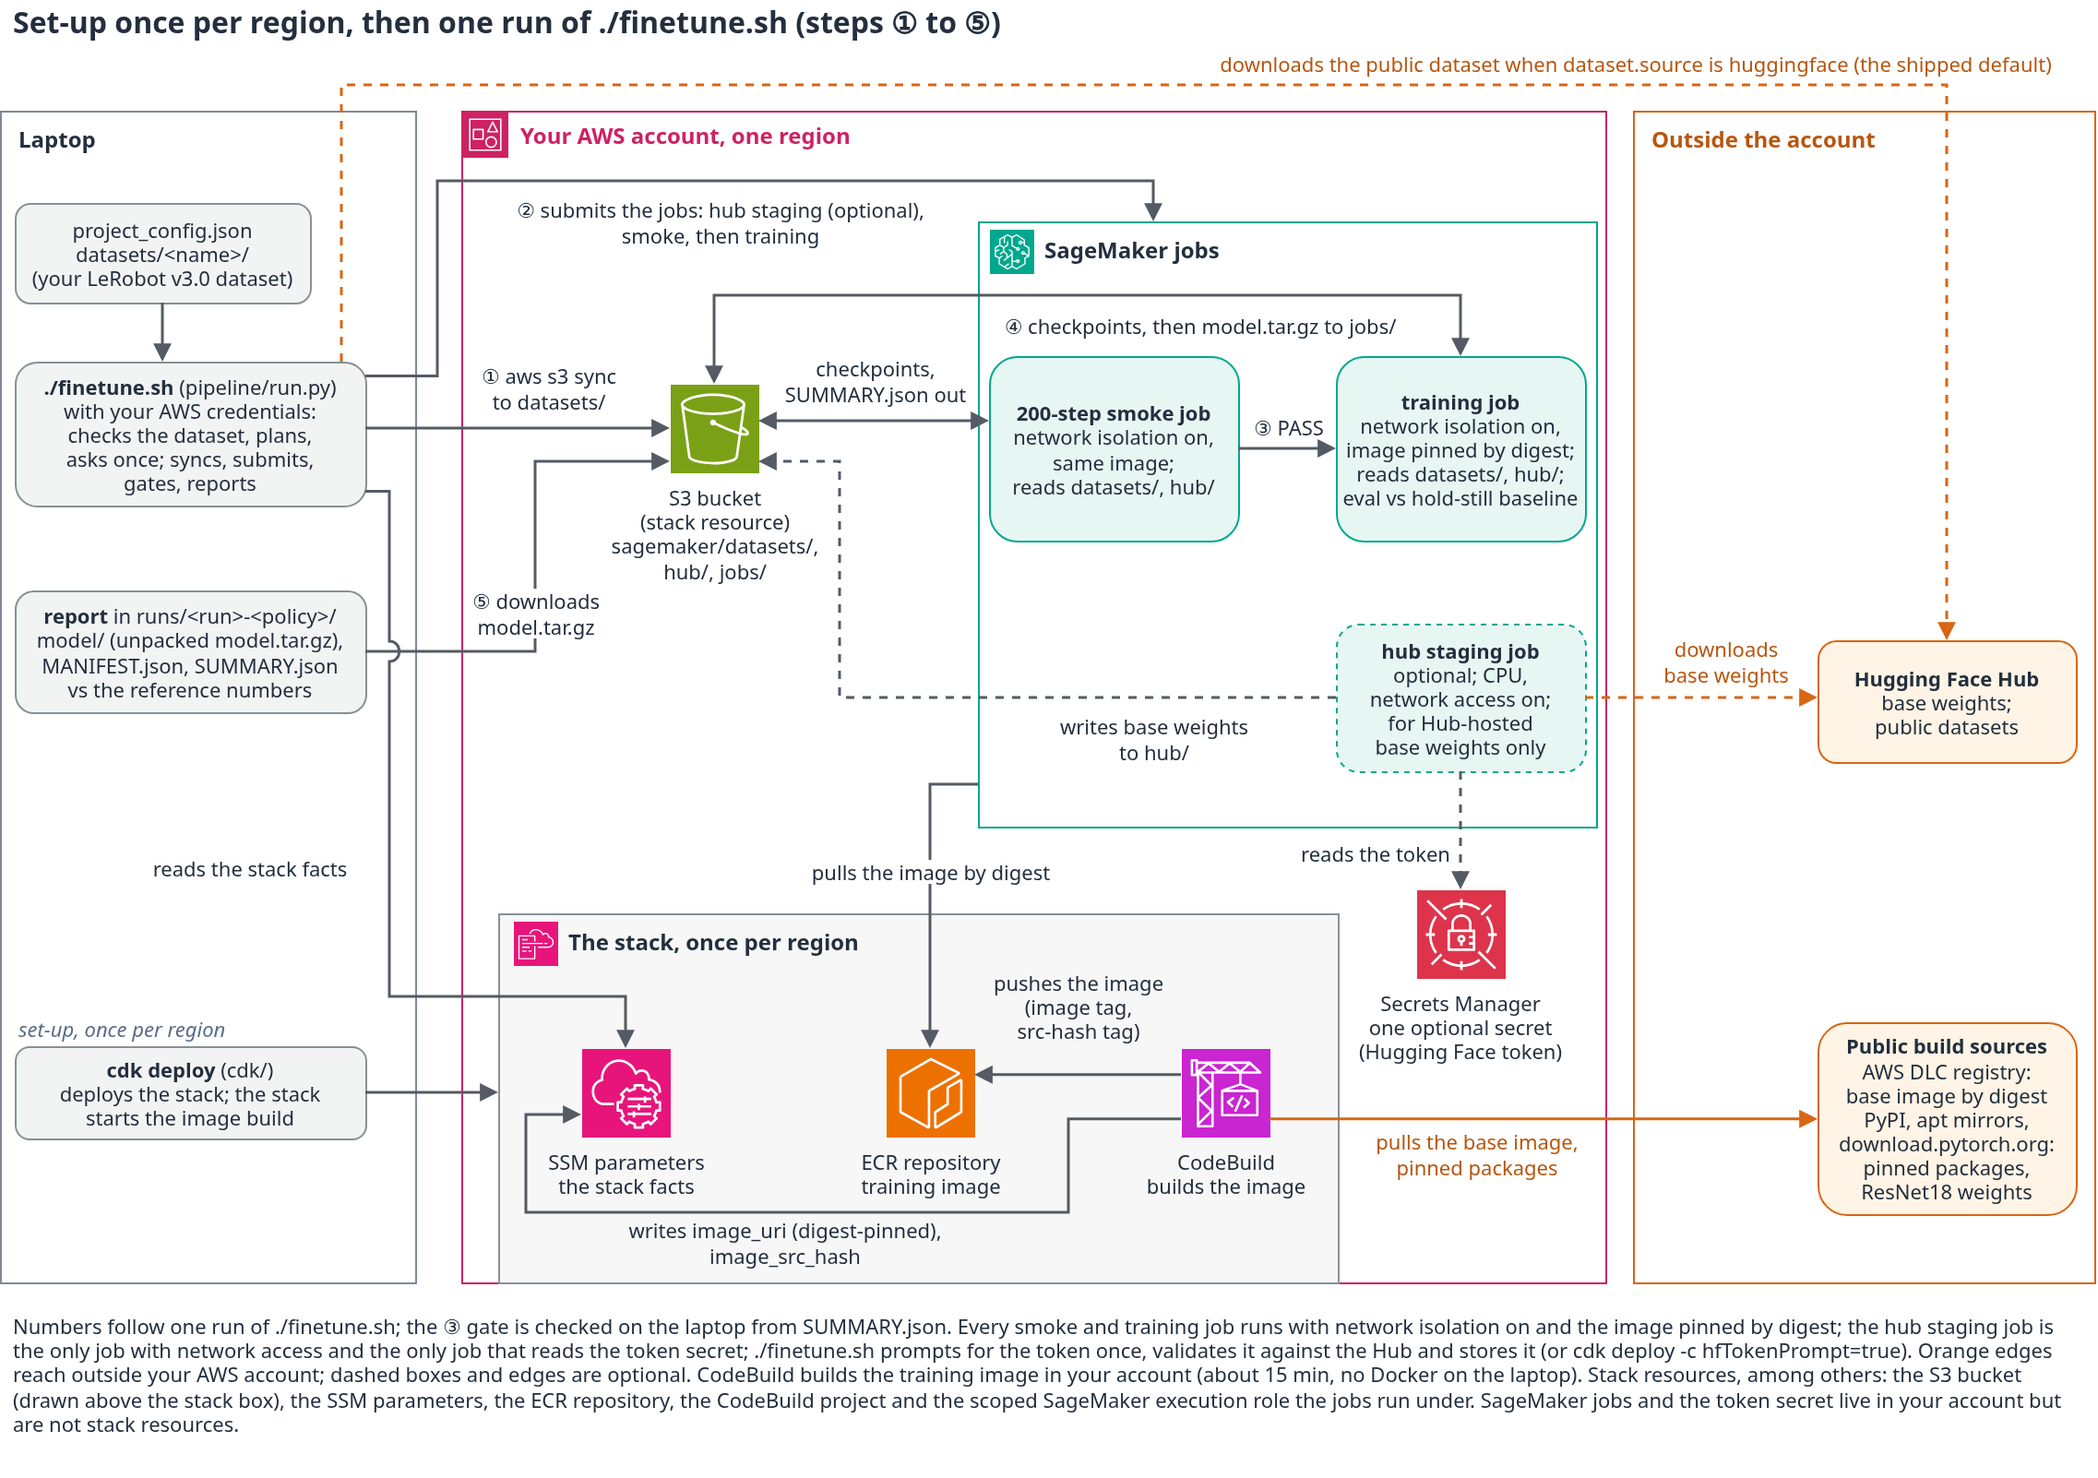
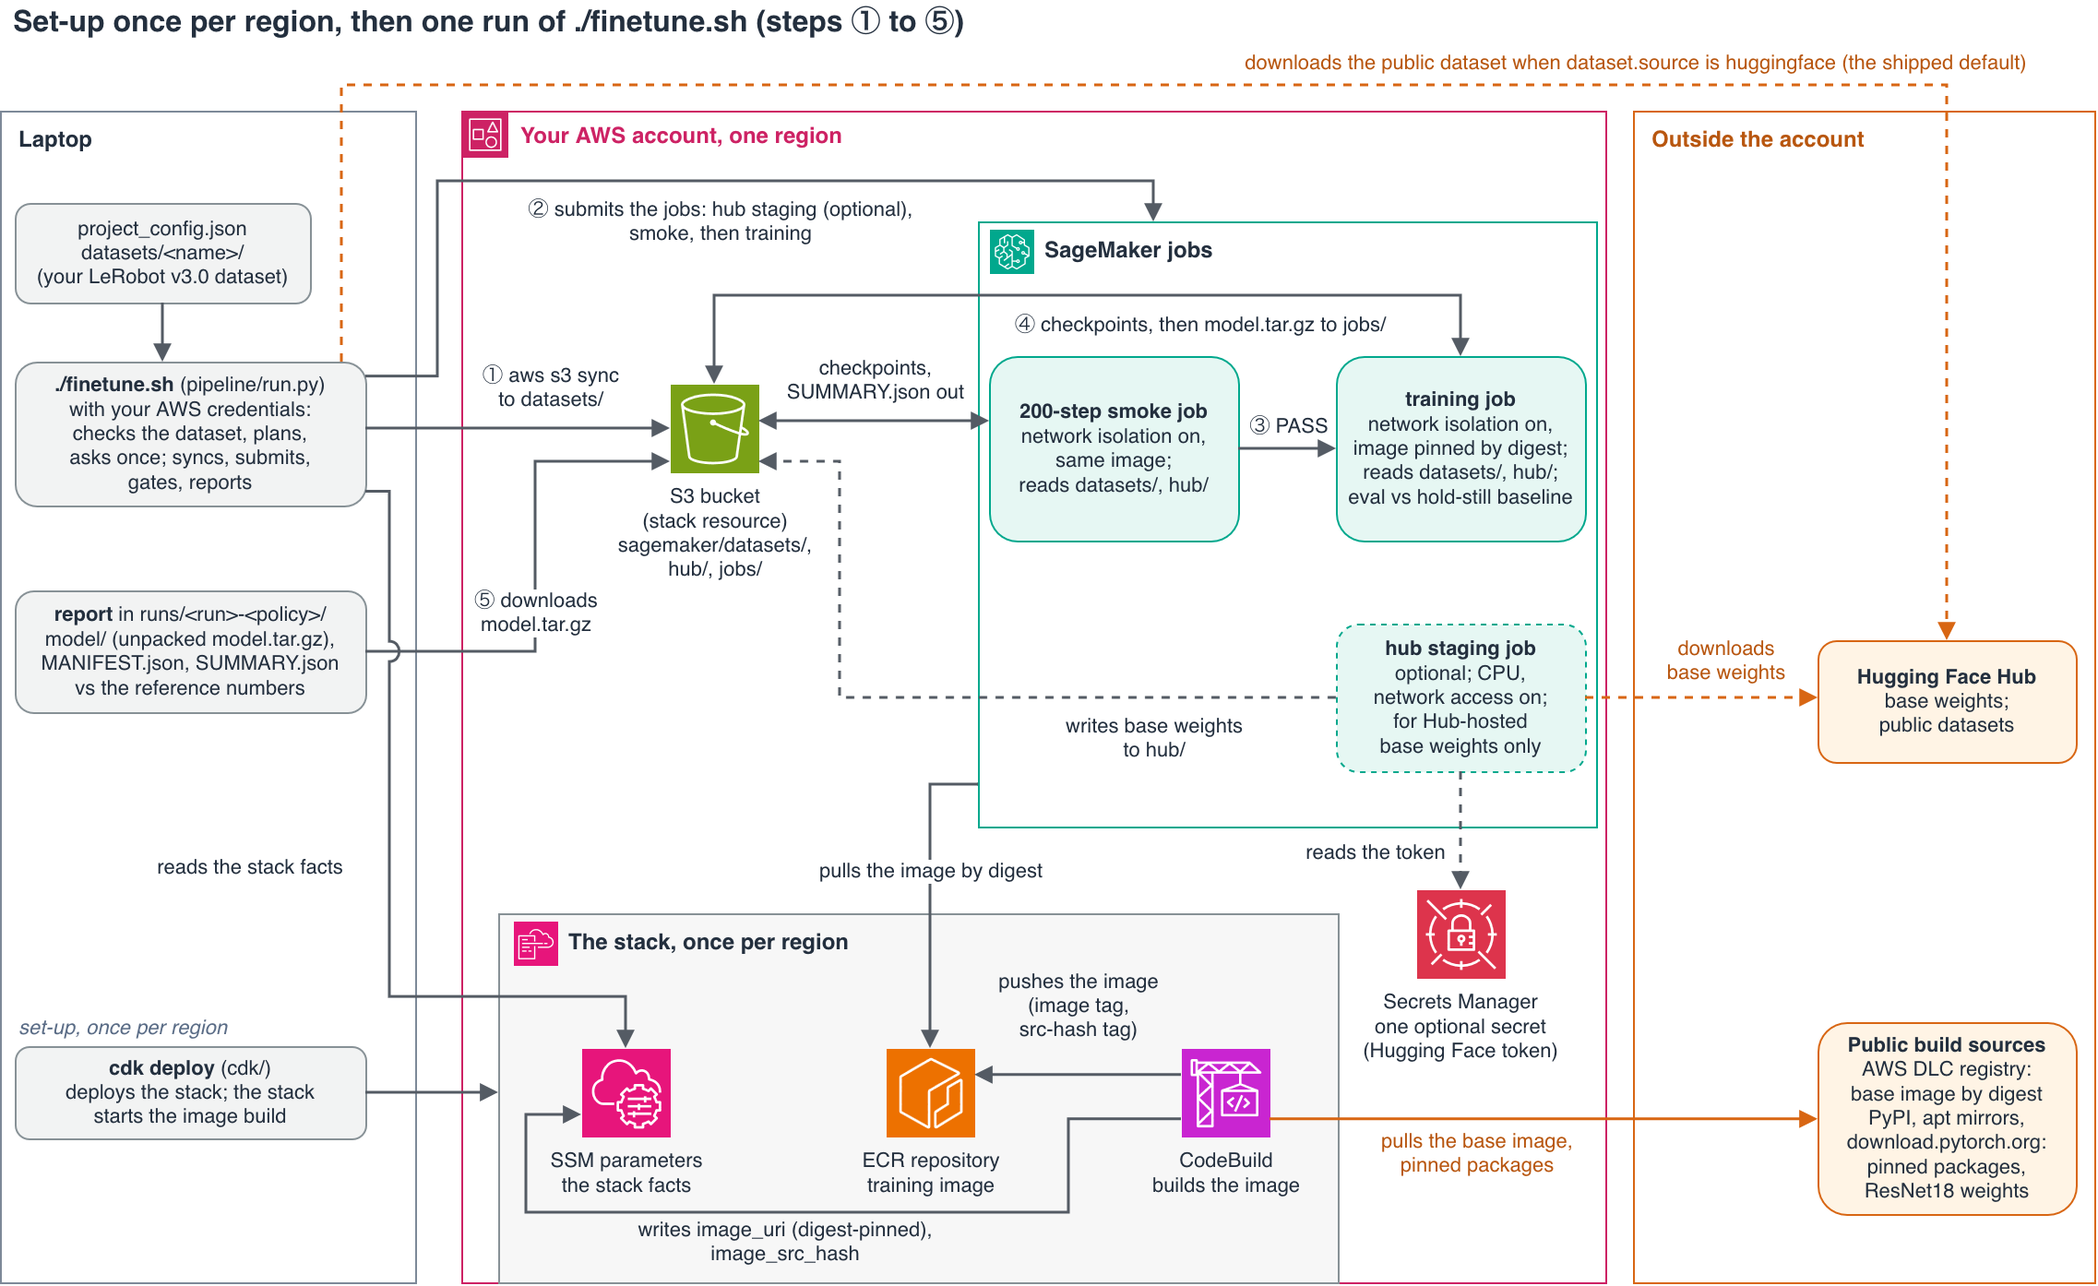
Diagram without the footnote paragraph; How it works set-up paragraph corrected; --dry-run with a gated policy only reports the token state
- docs/architecture.png/.drawio: the footnote paragraph is gone from the image; its facts live in the README set-up
  paragraph and data-flow steps, the caption carries the legend (orange = outside the account, dashed = optional).
- README: the SSM parameters are stack resources and the build writes two more; the execution role is the one every
  job runs under; the jobs and the token secret are created at run time (destroy still deletes the default-named
  secret unless retainData). Anonymous metrics: USER_AGENT_STRING carries the solution suffix, not the Hub token.
- finetune.sh --dry-run with a gated policy reports a missing or rejected Hugging Face token instead of prompting for
  it and creating the secret; preflight row and NOTE wording say so; TESTING.md walkthrough updated; regression test.

diff --git a/tests/test_run_flow.py b/tests/test_run_flow.py
@@ -94,6 +94,56 @@ def test_dry_run_with_smoke_disabled_or_skipped_prints_only_the_training_spec(tm
     assert capsys.readouterr().out.count("(dry run: not submitted)") == 1
 
 
+class FakeSecretsManager:
+    """The token secret as the dry run finds it (None = no secret). Every write is a test failure: before run.py passed
+    `required=not a.dry_run`, a dry run with a gated policy prompted for the token and created the secret."""
+    def __init__(self, value=None): self.value = value; self.calls = []
+    def get_secret_value(self, SecretId):
+        self.calls.append("get")
+        if self.value is None:
+            raise ClientError({"Error": {"Code": "ResourceNotFoundException"}}, "GetSecretValue")
+        return {"SecretString": self.value}
+    def create_secret(self, **kw): raise AssertionError("dry run wrote a Secrets Manager secret")
+    def put_secret_value(self, **kw): raise AssertionError("dry run wrote a Secrets Manager secret")
+
+
+def _refuse(msg):
+    def f(*a, **k): raise AssertionError(msg)
+    return f
+
+
+def test_dry_run_with_a_gated_policy_only_reports_the_token_state(tmp_path, monkeypatch, capsys):
+    """pi0 stages the gated PaliGemma tokenizer. A dry run reads the token secret once (GetSecretValue) and reports its
+    state; it never prompts, never writes the secret, never calls the Hub without a stored token, and still reaches the
+    staging lines and both job specs (hub channel mounted, no token in the training hyperparameters)."""
+    _offline(monkeypatch, tmp_path)
+    sm_fake = FakeSecretsManager(None)
+    clients = lambda sess, service: {"s3": FakeS3(), "sagemaker": FakeSageMaker(), "secretsmanager": sm_fake}[service]
+    monkeypatch.setattr(run, "client", clients)
+    monkeypatch.setattr(run.hub, "client", clients)                                   # stage_hub builds its own S3 client
+    monkeypatch.setattr(run.hf_token, "interactive", lambda: True)                    # a terminal is present: the old code prompted here
+    monkeypatch.setattr(run.hf_token.getpass, "getpass", _refuse("dry run prompted for the token"))
+    monkeypatch.setattr(run.hf_token, "whoami", _refuse("Hub called without a stored token"))
+    cfg = json.loads(_config(tmp_path).read_text())
+    cfg["policies"] = {"pi0": {"enabled": True, "steps": 1000, "save_freq": 500, "accept_licence": True}}
+    (tmp_path / "cfg.json").write_text(json.dumps(cfg))
+    assert run.main(["--config", str(tmp_path / "cfg.json"), "--region", "us-east-1", "--dry-run"]) == 0
+    out = capsys.readouterr().out
+    assert sm_fake.calls == ["get"]
+    assert "NOTE hf token     lerobot-finetune/hf_token: not found" in out
+    assert "[pi0] base weights:" in out and "will stage 2 artefact(s) for pi0" in out and "google/paligemma-3b-pt-224@" in out and "(text_tokenizer) [gated]" in out
+    assert out.count("(dry run: not submitted)") == 2
+    specs = [json.loads("{\n" + chunk.split("\n  (dry run")[0]) for chunk in out.split("\n{\n")[1:]]
+    assert [[c["ChannelName"] for c in s["InputDataConfig"]] for s in specs] == [["train", "hub"], ["train", "hub"]]
+    assert all("hf_token_secret" not in s["HyperParameters"] and s["EnableNetworkIsolation"] for s in specs)
+    # a stored token the Hub rejects (401) is reported the same way: no re-prompt, no overwrite
+    sm_fake.value, sm_fake.calls = json.dumps({"token": "hf_dead"}), []
+    monkeypatch.setattr(run.hf_token, "whoami", lambda token, opener=None: {"ok": False, "user": None, "status": 401})
+    assert run.main(["--config", str(tmp_path / "cfg.json"), "--region", "us-east-1", "--dry-run"]) == 0
+    out = capsys.readouterr().out
+    assert sm_fake.calls == ["get"] and "NOTE hf token     lerobot-finetune/hf_token: rejected by the Hub (401)" in out and out.count("(dry run: not submitted)") == 2
+
+
 def test_stop_after_and_plan_exit_before_any_job_spec(tmp_path, monkeypatch, capsys):
     _offline(monkeypatch, tmp_path)
     cfg = _config(tmp_path)

diff --git a/pipeline/preflight.py b/pipeline/preflight.py
@@ -231,7 +231,7 @@ def run_preflight(cfg: dict, stack: dict, sess, policies: dict, *, candidates: l
             from pipeline.aws import client as _mk
             st = _hf.status((client or (lambda n: _mk(sess, n)))("secretsmanager"), _hf.secret_name(cfg))
             rows.append(("ok" if st["state"] == "ok" else "warn", "hf token",
-                         f"{_hf.secret_name(cfg)}: {st['state']}" + (f" (user {st['user']})" if st.get("user") else "; you will be prompted before staging")))
+                         f"{_hf.secret_name(cfg)}: {st['state']}" + (f" (user {st['user']})" if st.get("user") else "; asked for before the staging job (hidden input; a dry run only reports it)")))
     for lvl, check, msg in rows:
         log(f"  {lvl.upper():4s} {check:12s} {msg}")
     fails = [m for lvl, _, m in rows if lvl == "fail"]

diff --git a/pipeline/hf_token.py b/pipeline/hf_token.py
@@ -95,7 +95,7 @@ def ensure(sm, name: str, *, log=print, prompt=None, opener=None, required: bool
         return st
     why = "not found" if st["state"] == "missing" else "rejected by the Hub (401): rotated or revoked"
     if not required:
-        log(f"  NOTE hf token     {name}: {why}; only needed for policies with gated base weights")
+        log(f"  NOTE hf token     {name}: {why}; reported only: a real run asks for it before staging (hidden input) or, without a terminal, exits 4")
         return st
     if not (prompt or (interactive() and getpass.getpass)):
         raise RuntimeError(f"Hugging Face token secret {name} {why}. Store one: aws secretsmanager put-secret-value --secret-id {name} "

diff --git a/pipeline/run.py b/pipeline/run.py
@@ -670,7 +670,7 @@ def _main(a) -> int:
             if any(art.get("gated") for art in spec["hub_artifacts"]):   # the token: stored once, validated, never in the repo
                 sname = hf_token.secret_name(cfg)
                 try:
-                    hf_token.ensure(client(sess, "secretsmanager"), sname, log=log)
+                    hf_token.ensure(client(sess, "secretsmanager"), sname, log=log, required=not a.dry_run)   # a dry run only reports a missing token
                 except RuntimeError as e:
                     raise Abort(4, str(e))
                 cfg = {**cfg, "secrets": {**(cfg.get("secrets") or {}), "hf_token": sname}}

diff --git a/README.md b/README.md
@@ -119,23 +119,31 @@ comparable with ACT's because their chunk lengths differ ([docs/WHY_NOT_VLA.md](
 
 ![Architecture: laptop, S3 bucket, SageMaker jobs, ECR and CodeBuild in your account, and the Hugging Face Hub outside it](docs/architecture.png)
 
-*The circled numbers ① to ⑤ in the diagram are one run of `./finetune.sh`; the steps below follow them. Editable source:
+*The circled numbers ① to ⑤ in the diagram are one run of `./finetune.sh`; the steps below follow them.
+Orange arrows reach outside your AWS account; dashed boxes and arrows are optional. Editable source:
 [docs/architecture.drawio](docs/architecture.drawio).*
 
-**Set-up, once per region.** `cdk deploy` creates an ECR repository, an S3 bucket, a scoped SageMaker execution role and a
-CodeBuild project, then starts the image build. CodeBuild builds the training image **in your account** (about 15 minutes;
-no Docker on your machine, no 13 GB image upload), pushes it to ECR and writes the digest-pinned `image_uri` and the other
-stack facts to SSM parameters. Everything downstream reads those parameters.
+**Set-up, once per region.** `cdk deploy` creates an ECR repository, an S3 bucket, a scoped SageMaker execution role
+that every job runs under, a CodeBuild project and the SSM parameters that record those stack facts, then starts the
+image build. CodeBuild builds the training image **in your account** (about 15 minutes; no Docker on your machine, no 13
+GB image upload), pushes it to ECR and writes the digest-pinned `image_uri` and the image's source hash to two more SSM
+parameters. Everything downstream reads those parameters. The SageMaker jobs and the token secret live in your account
+too, but the stack does not create them: `./finetune.sh` submits the jobs at run time, and the secret is created in
+Secrets Manager the first time a token is stored (with the shipped default, `cdk destroy` still deletes the
+default-named secret; see [Teardown](#teardown)).
 
 Data flow of one run:
 
 1. **① Laptop to S3.** `./finetune.sh` reads the stack facts from SSM, checks the dataset against the enabled policies, waits
    for a running image build if there is one, prints one plan and asks once. Then `aws s3 sync` uploads what is missing of
    the dataset to `sagemaker/datasets/` in the bucket.
-2. **② Submit the jobs.** For each enabled policy: a CPU hub staging job when the base weights live on the Hugging Face Hub
-   (the only job with network access and the only one that reads the token secret; it writes the weights to `hub/`), then a
-   200-step smoke job, then the training job. Every smoke and training job pulls the image from ECR by digest, reads
-   `datasets/` and `hub/` from the bucket, and runs with network isolation on.
+2. **② Submit the jobs.** For each enabled policy: a CPU hub staging job when the base weights live on the Hugging Face
+   Hub (the only job with network access and the only one that reads the token secret; it writes the weights to `hub/`),
+   then a 200-step smoke job, then the training job. Before a staging job for gated weights, `./finetune.sh` checks the
+   stored Hugging Face token against the Hub and asks for one, with hidden input, only when it is missing or rejected;
+   it stores the token in Secrets Manager (`cdk deploy -c hfTokenPrompt=true` does this at deploy time instead). Every
+   smoke and training job pulls the image from ECR by digest, reads `datasets/` and `hub/` from the bucket, and runs
+   with network isolation on.
 3. **③ The gate.** The smoke job writes its checkpoints and `SUMMARY.json` back to the bucket. The laptop reads that summary
    and submits the training job only when the gate passes: the job completed, the weights moved, no trainable parameter is
    stored in bf16, the evaluation is finite and the reload check succeeded. The smoke's step rate sizes the training job's
@@ -483,16 +491,17 @@ unlabelled, and `cdk synth` or `cdk deploy` stops with an error until you pass y
 rather than deploying a stack that is silently never counted. The committed plain template keeps the description it was
 exported with; edit its `Description` field if you opt out on that path.
 
-Coverage is partial by construction. The suffix rides on botocore's `Config(user_agent_extra=...)`, which exists only for SDK
-clients. The AWS CLI has no equivalent hook (no environment variable, no shared-config key), so these calls are not
-attributed: the `aws s3 sync` that uploads a dataset (`pipeline/run.py`), the `aws ecr`, `aws s3` and `aws ssm` commands in
-the CodeBuild image build (`cdk/lerobot_finetune/stack.py`), and the CLI calls in `trainer/sagemaker/build_and_push.sh` and
-`scripts/destroy.sh`. Two more sources are outside the repository's control: the calls the two CDK helper Lambdas make (the
-build kickoff and the delete-time cleanups run aws-cdk-lib's own code), and the S3 traffic SageMaker itself generates for
-channels, checkpoints and outputs. Training jobs run with network isolation and make no AWS calls of their own. Of the jobs
-this repository submits, only the base-weight staging job calls an AWS API (Secrets Manager, from `trainer/hub_stage.py`).
-It gets the token through the `USER_AGENT_STRING` environment variable that `pipeline/hub.py` sets on the job, because
-there is no repository checkout inside the image.
+Coverage is partial by construction. The suffix rides on botocore's `Config(user_agent_extra=...)`, which exists only
+for SDK clients. The AWS CLI has no equivalent hook (no environment variable, no shared-config key), so these calls are
+not attributed: the `aws s3 sync` that uploads a dataset (`pipeline/run.py`), the `aws ecr`, `aws s3` and `aws ssm`
+commands in the CodeBuild image build (`cdk/lerobot_finetune/stack.py`), and the CLI calls in
+`trainer/sagemaker/build_and_push.sh` and `scripts/destroy.sh`. Two more sources are outside the repository's control:
+the calls the two CDK helper Lambdas make (the build kickoff and the delete-time cleanups run aws-cdk-lib's own code),
+and the S3 traffic SageMaker itself generates for channels, checkpoints and outputs. Training jobs run with network
+isolation and make no AWS calls of their own. Of the jobs this repository submits, only the base-weight staging job
+calls an AWS API (Secrets Manager, from `trainer/hub_stage.py`). It gets the solution's user-agent suffix through the
+`USER_AGENT_STRING` environment variable that `pipeline/hub.py` sets on the job, because there is no repository checkout
+inside the image.
 
 ## Licence
 

diff --git a/docs/TESTING.md b/docs/TESTING.md
@@ -235,11 +235,12 @@ AWS call (no stack needed). Then follow README Quick start step 4 to point `proj
 ### Several policies in one run
 
 `examples/project_config.vla.json` enables SmolVLA, X-VLA, pi0 and pi0.5 on the public dataset. The quickest look is
-`./finetune.sh --config examples/project_config.vla.json --dry-run`; [examples/README.md](../examples/README.md) says what
-the file runs, what it needs and the two ways to use it. The file already sets `accept_licence` for X-VLA, pi0 and
-pi0.5. pi0 and pi0.5 also need a Hugging Face token, which `./finetune.sh` asks for (hidden input) at their
-`base weights:` step; a non-interactive run (`CI=1`) exits 4 there instead (user steps: README, "Gated base weights and
-the Hugging Face token"; mechanics: `docs/ARCHITECTURE.md`, stages of `./finetune.sh`).
+`./finetune.sh --config examples/project_config.vla.json --dry-run`; [examples/README.md](../examples/README.md) says
+what the file runs, what it needs and the two ways to use it. The file already sets `accept_licence` for X-VLA, pi0 and
+pi0.5. pi0 and pi0.5 also need a Hugging Face token. A real run asks for it (hidden input) at their `base weights:` step
+and, without a terminal (`CI=1`), exits 4 there instead; `--dry-run` only reports the secret's state and goes on to the
+job specs (user steps: README, "Gated base weights and the Hugging Face token"; mechanics: `docs/ARCHITECTURE.md`,
+stages of `./finetune.sh`).
 
 The dry run prints, in this order:
 
@@ -248,12 +249,14 @@ The dry run prints, in this order:
 2. The `plan:` table.
 3. `stage:` once per distinct dataset.
 4. For each enabled policy, in config order, `[<policy>] base weights:` when the registry entry lists `hub_artifacts`.
-   It says either `base weights already staged: s3://.../sagemaker/hub/<policy>/` or
-   `will stage N artefact(s) for <policy> with a ml.m5.4xlarge job (network on)`. The second form is followed by one line
-   per artefact (a file the staging job downloads from the Hub), with `[gated]` where a token is needed, and by a
-   `stale staging` line with the object count and bytes of an earlier staging that a real run would delete first. The
-   staging job (`pipeline/hub.py`) is an
-   on-demand `ml.m5.4xlarge` with a 2 h cap, a 200 GB volume and network isolation off.
+   For an entry with gated artefacts an `hf token` line comes first: `OK ... valid (Hugging Face user <name>)` when the
+   secret holds a token the Hub accepts, otherwise `NOTE ...: not found` or `...: rejected by the Hub (401)`; the dry
+   run neither asks for a token nor stores one. It says either `base weights already staged:
+   s3://.../sagemaker/hub/<policy>/` or `will stage N artefact(s) for <policy> with a ml.m5.4xlarge job (network on)`.
+   The second form is followed by one line per artefact (a file the staging job downloads from the Hub), with `[gated]`
+   where a token is needed, and by a `stale staging` line with the object count and bytes of an earlier staging that a
+   real run would delete first. The staging job (`pipeline/hub.py`) is an on-demand `ml.m5.4xlarge` with a 2 h cap, a
+   200 GB volume and network isolation off.
 5. `[<policy>] smoke: 200 steps on <instance>`, or `smoke: reusing <job>` when an identical smoke already passed.
 6. `[<policy>] train: <steps> steps on <instance>`.
 
